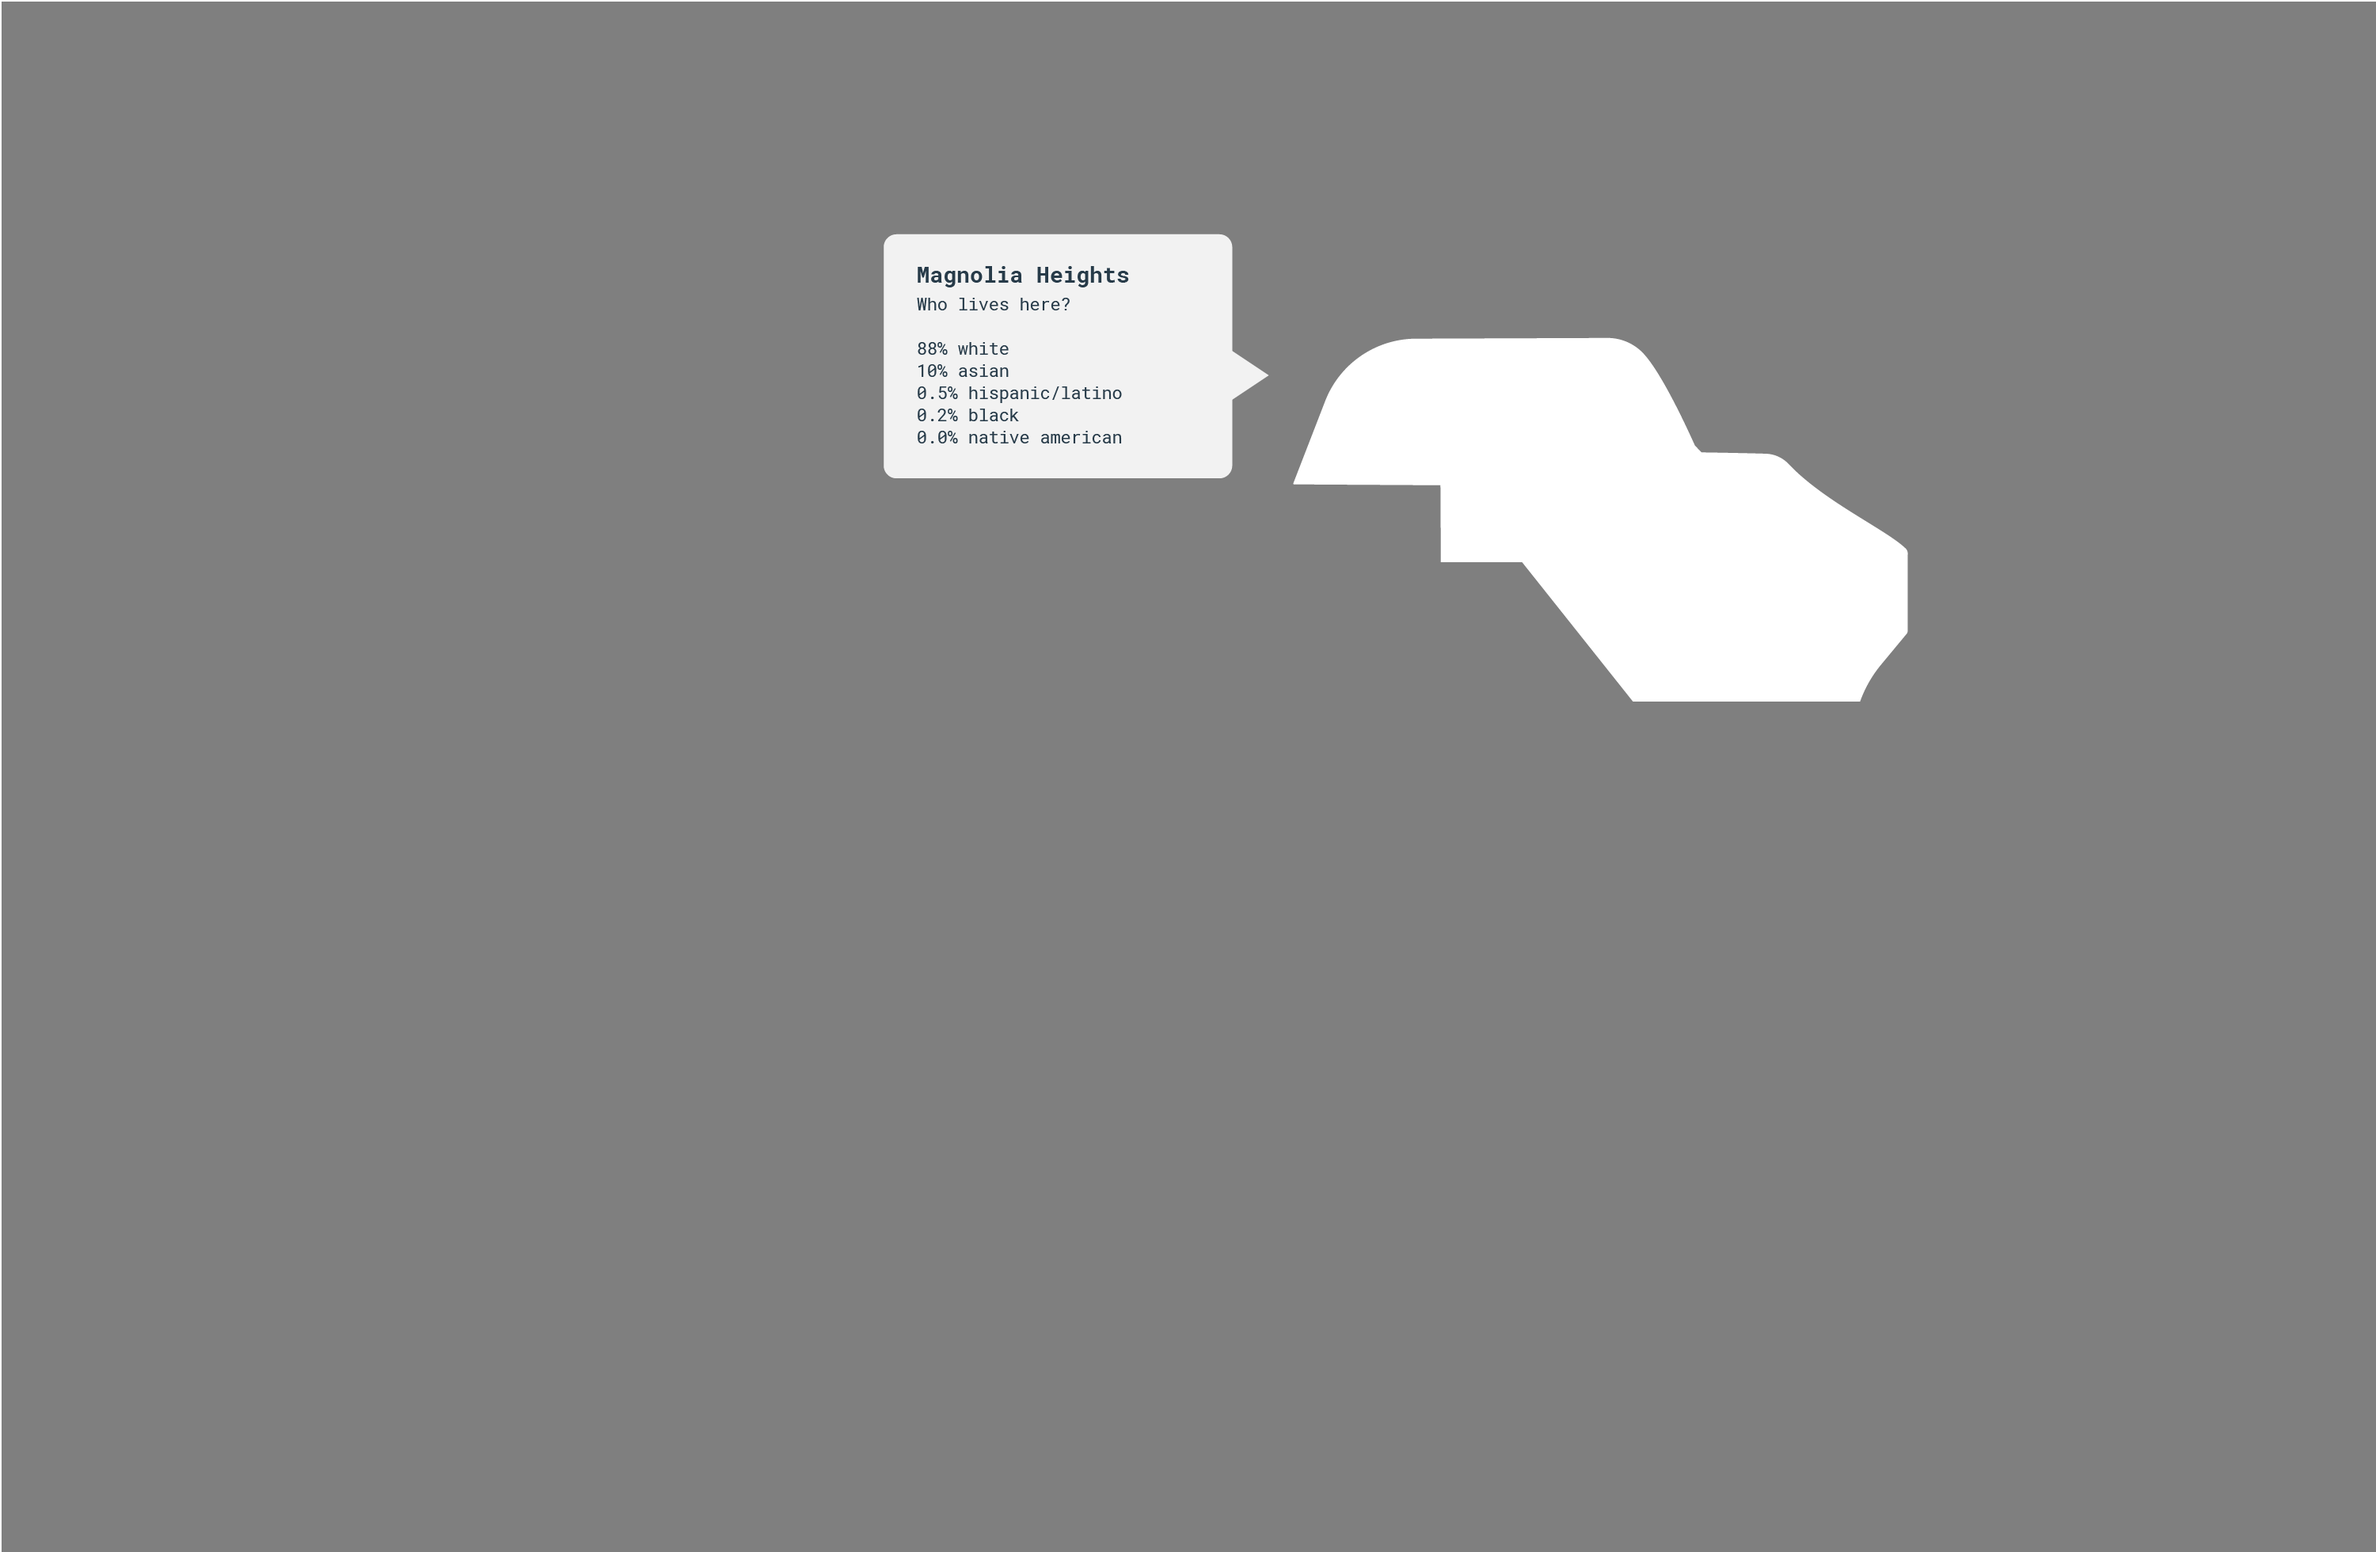
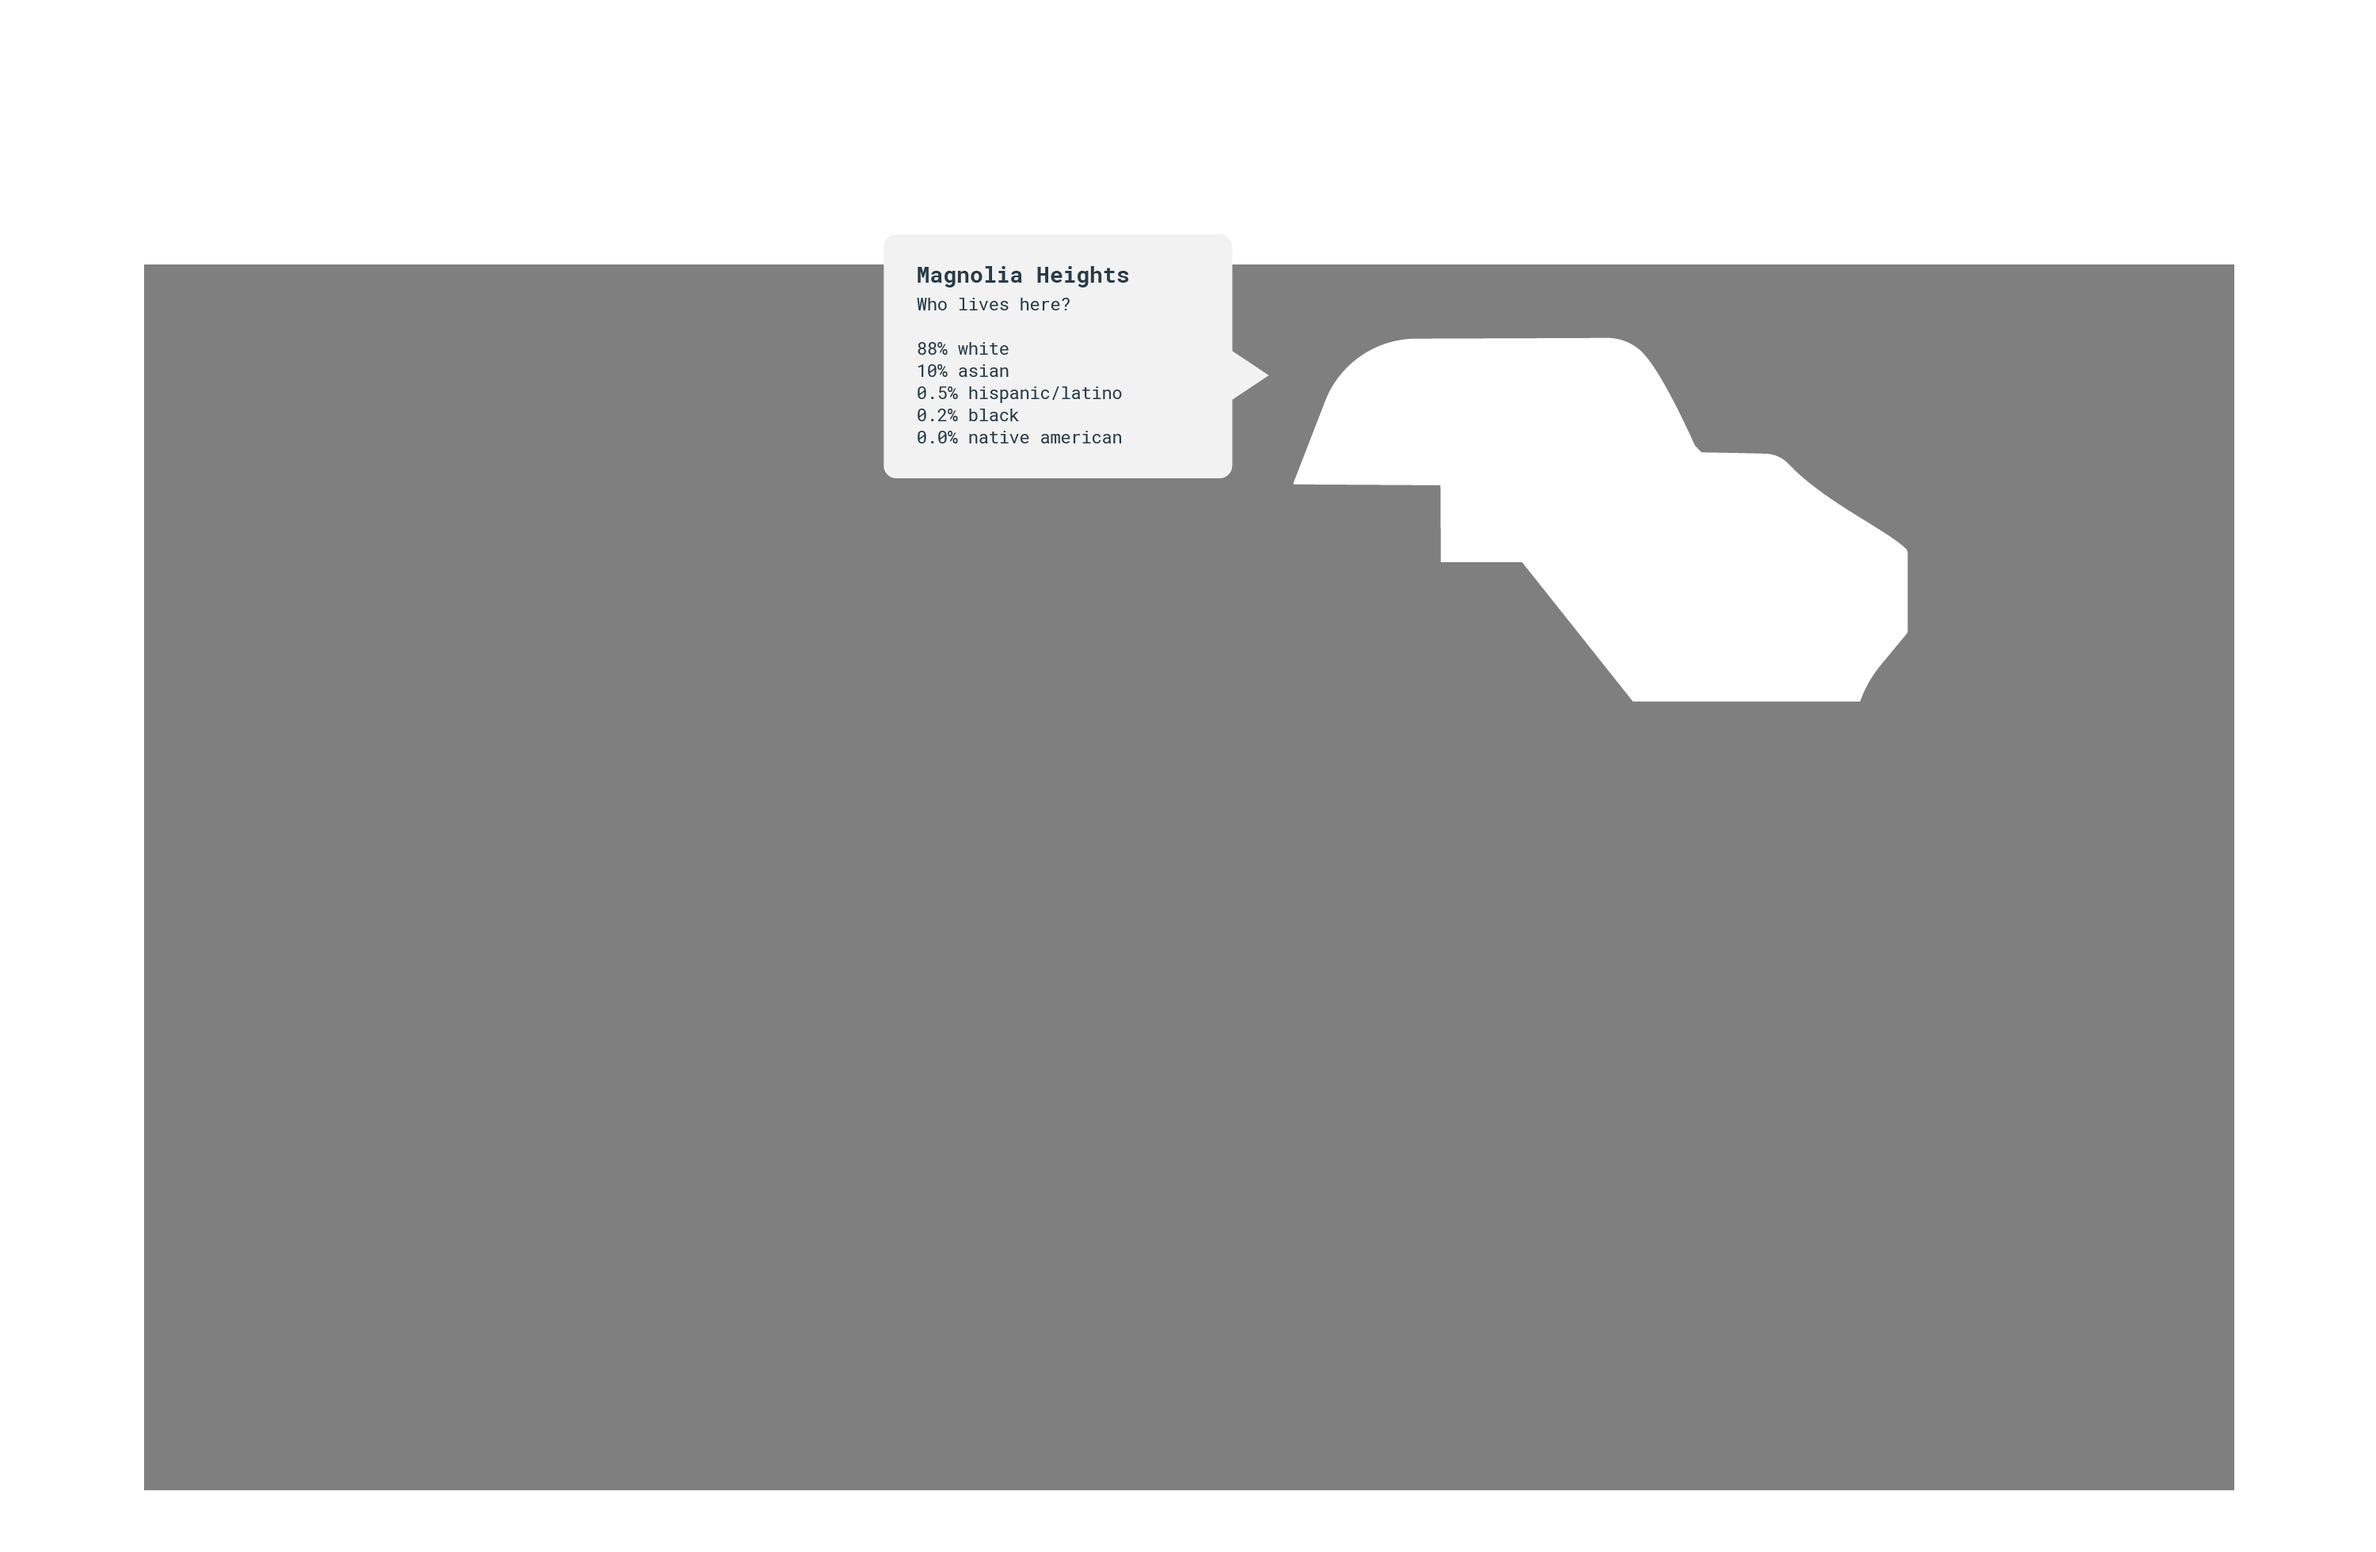
fixed: browser window, minor copy changes

diff --git a/public/assets/js/Intro.js b/public/assets/js/Intro.js
@@ -1,17 +1,18 @@
 class Intro {
   draw() {
     rectMode(CENTER)
-    background(mapImage,1);
+    background(browser,1);
+    image(mapImage,0,0,width, height);
     fill(255);
     rect(width/2, height/2, 0.7 * width, 250);
 
     fill(0);
     textSize(20);
-    text("Welcome to PHP: Personalized Housing Provider!", width/2, height/2-60);
-
-    textSize(16);
-    text("We're a new kind of search engine.", width/2, height/2 - 20);
-    text("And we want to help you find the perfect home.", width/2, height/2 + 10);
+    // text("Welcome to PHP: Personalized Housing Provider!", width/2, height/2-60);
+    //
+    // textSize(16);
+    // text("We're a new kind of search engine.", width/2, height/2 - 20);
+    // text("And we want to help you find the perfect home.", width/2, height/2 + 10);
 
     textSize(28);
     text("PRESS ENTER TO START", width/2, height/2+80);

diff --git a/public/sketch.js b/public/sketch.js
@@ -27,6 +27,7 @@ let raceLabels = [
   "asian",
   "white",
 ];
+
 let educationLabels = [
   "less-than-high-school",
   "high-school",
@@ -39,7 +40,7 @@ function preload(){
   roboto = loadFont('assets/fonts/RobotoMono.ttf');
 
   mapImage = loadImage('assets/images/map.png');
-
+  browser = loadImage('assets/images/browser.png')
   blackf = loadImage('assets/images/black-f.png');
   whitef = loadImage('assets/images/white-f.png');
   hispf = loadImage('assets/images/hispanic-f.png');
@@ -89,7 +90,6 @@ function setup() {
   // Preload scenes. Preloading is normally optional
   // ... but needed if showNextScene() is used.
   mgr.addScene(ModelTrainer);
-
   mgr.addScene(Intro);
   mgr.addScene(Profile);
   mgr.addScene(Game);

diff --git a/public/assets/js/Profile.js b/public/assets/js/Profile.js
@@ -8,13 +8,12 @@ class Profile {
   }
 
   draw() {
-    background(0);
+    background(browser,1);
     fill(255);
 
     text(
-      squish(`Like all search engines, we collect data about our users
-      to give you the best possible search experience.
-      Please tell us a little bit about yourself to receive your personalized result.`),
+      squish(`Tell us some data about yourself so that we can
+      give you the best possible search experience.`),
       width/2,
       height/4 - 30
     );

diff --git a/public/assets/js/Game.js b/public/assets/js/Game.js
@@ -16,8 +16,8 @@ class Game {
   }
 
   draw() {
-    background(mapImage, 1);
-
+    background(browser, 1);
+    image(mapImage, 0,0,width,height);
     if (!this.neighborhood) {
       // TODO: loading bar
       return;
@@ -26,6 +26,6 @@ push();
 imageMode(CENTER)
     image(this.mask, width/2, height/2, width,height);
 pop();
-    image(you, width-100, 0, 100, 100);
+    image(you, 1350, 80, 100,100);
   }
 }
